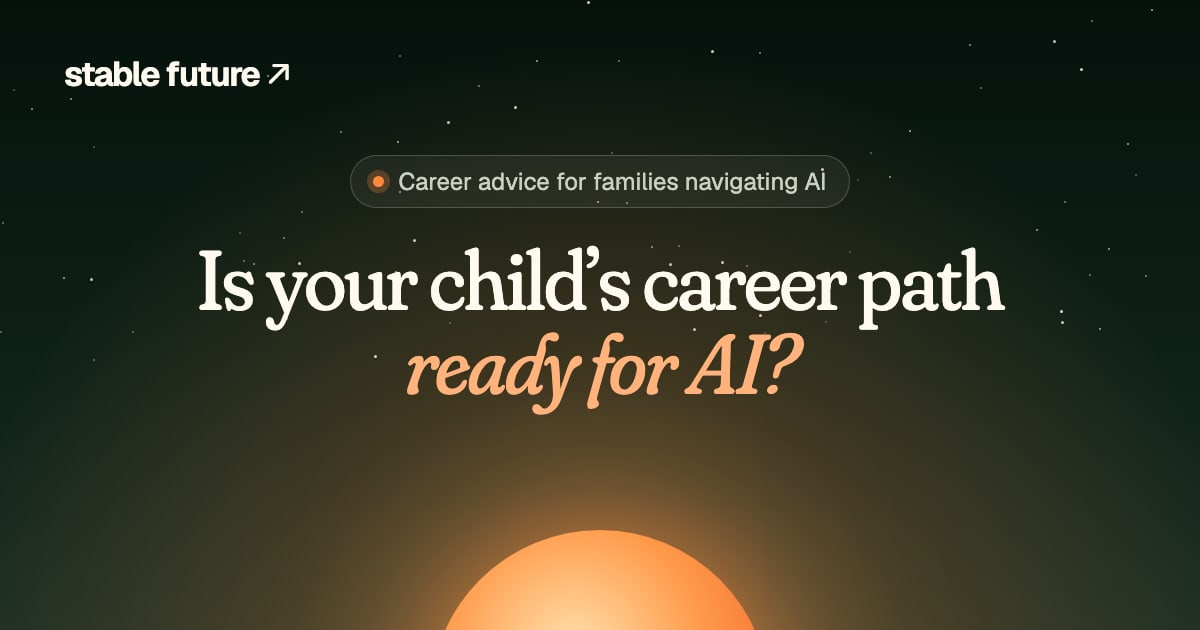
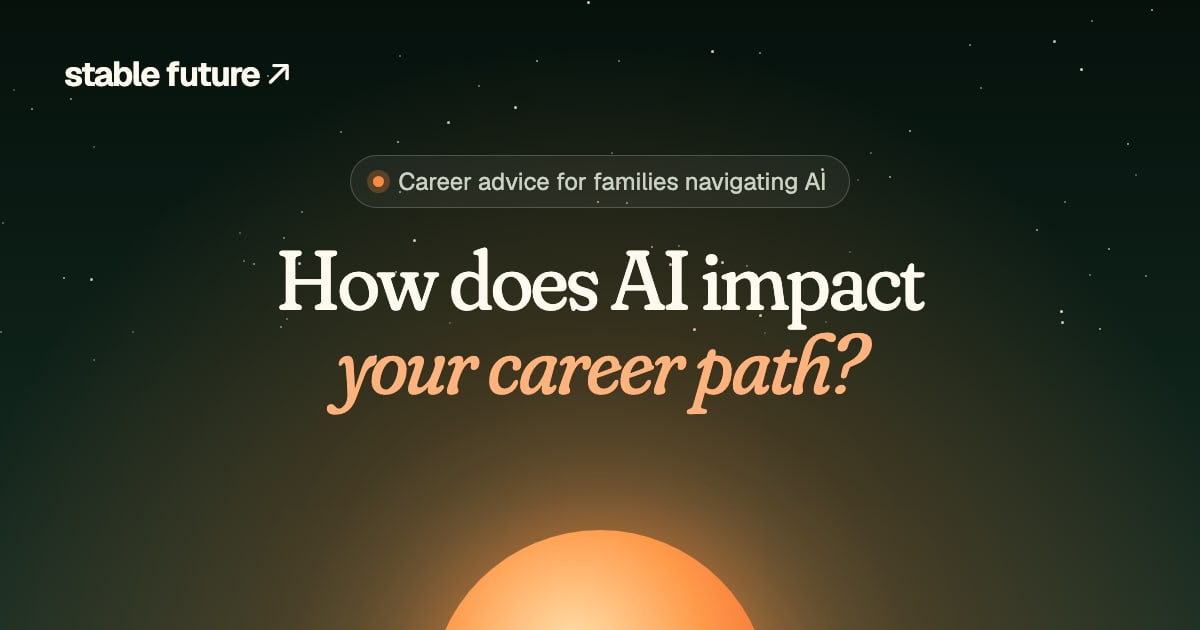
Copy: speak to students and parents, simplify the career check
- Home heading and check prompt: "How does AI impact your career path?";
  search title and share image follow
- Replace "your child" with son or daughter, student, or they; parent(s)
- "Skills strategy", "1 plan you have confidence in", bio without
  "of all ages"
- Career check: search only (no suggestions or count), no empty slots,
  clearer opt-out, report tiles match the email (3 tasks, A/B/Z + advice)
- Email advice addresses the reader; "Every student needs a plan for AI"
- Draft reply email includes a way to opt out, as PECR requires
- About link lands 64px lower so the whole section fits

Changed region(s): [[0.1542, 0.3921, 0.8325, 0.6635]]

diff --git a/app/ai-career-check/CareerCheck.tsx b/app/ai-career-check/CareerCheck.tsx
@@ -20,7 +20,6 @@ const KINDS = [
 const KIND_ORDER: Record<string, number> = { degree: 0, apprenticeship: 1, job: 2 };
 const kindLabel = (kind: string) => kind === 'degree' ? 'Degree' : kind === 'apprenticeship' ? 'Apprenticeship' : 'Job';
 // One tap adds these. Chosen because parents ask about them most often.
-const POPULAR = ['cah3:CAH04-01-01', 'cah3:CAH16-01-01', 'cah3:CAH11-01-01', 'cah3:CAH01-01-02', 'cah3:CAH17-01-01', 'st:ST0116', 'cah3:CAH17-01-08', 'st:ST0152', 'cah3:CAH02-04-01', 'cah3:CAH19-01-01', 'st:ST0246', 'soc4:2255'];
 const HINTS = ['Psychology', 'Electrician', 'Law', 'Software developer', 'Medicine', 'Marketing'];
 const MAX = 3;
 
@@ -92,7 +91,6 @@ export default function CareerCheck({ testing = false }: { testing?: boolean }) 
     return () => window.clearInterval(timer);
   }, []);
 
-  const byId = useMemo(() => new Map((catalogue?.paths ?? []).map((p) => [p.id, p])), [catalogue]);
   const areas = useMemo(() => {
     if (!catalogue || !kind) return [];
     if (kind === 'job') return catalogue.jobGroups.map((g) => ({ id: g.id, label: g.title })).sort((a, b) => a.label.localeCompare(b.label));
@@ -107,9 +105,9 @@ export default function CareerCheck({ testing = false }: { testing?: boolean }) 
       .filter((p) => (!kind || p.kind === kind) && (!sector || (kind === 'job' ? ids?.has(p.id) : p.sectors?.some((s) => (typeof s === 'string' ? s : s.id) === sector))))
       .sort((a, b) => KIND_ORDER[a.kind] - KIND_ORDER[b.kind] || a.title.localeCompare(b.title));
   }, [catalogue, kind, sector]);
-  const browsing = !query.trim() && !sector;
+  // Nothing is listed until the visitor types or picks a path type.
+  const browsing = !query.trim() && !sector && !kind;
   const results = useMemo(() => browsing ? [] : searchMatches(pool, query, (p) => p.title, (p) => p.aka ?? []).slice(0, 60), [pool, query, browsing]);
-  const popular = useMemo(() => POPULAR.map((id) => byId.get(id)).filter((p): p is Path => !!p && (!kind || p.kind === kind)), [byId, kind]);
   const full = selected.length >= MAX;
   const locked = status === 'sending';
 
@@ -162,7 +160,7 @@ export default function CareerCheck({ testing = false }: { testing?: boolean }) 
 
     <section className={styles.hero}>
       <p className={styles.eyebrow}>The free AI career check for parents</p>
-      <h1>How exposed is your child’s <em>career path</em> to AI?</h1>
+      <h1>How exposed is your son or daughter’s <em>career path</em> to AI?</h1>
       <p className={styles.lede}>Pick up to three degrees, apprenticeships, or jobs. We’ll email you a clear report: how much of the work AI can do, and what to do about it.</p>
     </section>
 
@@ -192,11 +190,7 @@ export default function CareerCheck({ testing = false }: { testing?: boolean }) 
         <div id="cc-results" className={styles.results} aria-live="polite">
           {loadError ? <div className={styles.empty}>We couldn’t load the paths. <button type="button" onClick={() => { setLoadError(false); setReload(reload + 1); }}>Try again</button></div>
             : !catalogue ? <div className={styles.skeleton}>{Array.from({ length: 6 }, (_, i) => <i key={i} />)}</div>
-            : browsing ? <>
-              <p className={styles.listLabel}>Popular with parents</p>
-              <div className={styles.popular}>{popular.map((p) => item(p, styles.chip))}</div>
-              <p className={styles.listHint}>Or type any of {catalogue.paths.length.toLocaleString('en-GB')} UK degrees, apprenticeships, and jobs.</p>
-            </> : <>
+            : browsing ? null : <>
               <p className={styles.listLabel}>{results.length ? `${results.length === 60 ? '60+' : results.length} ${results.length === 1 ? 'match' : 'matches'}` : 'No matches yet'}</p>
               <div className={styles.list} role="list">{results.map(({ item: p, via }, i) => <div role="listitem" key={p.id} data-active={i === active || undefined} onMouseEnter={() => setActive(i)}>{item(p)}{via && <span className={styles.via}>Also called {via}</span>}</div>)}</div>
               {!results.length && <p className={styles.empty}>Try a shorter word, or another path type.</p>}
@@ -214,7 +208,7 @@ export default function CareerCheck({ testing = false }: { testing?: boolean }) 
             <div className={styles.nextStep}>
               <p className={styles.nextEyebrow}>Want a plan, not just a report?</p>
               <p>Ben will help you build a Plan A, B and Z the whole family is happy with. <strong>We only work with 10 families a month.</strong></p>
-              <a className={styles.cta} href="/#advice">Get advice: pick a time <span aria-hidden="true">→</span></a>
+              <Link className={styles.cta} href="/#advice">Get advice: pick a time <span aria-hidden="true">→</span></Link>
             </div>
             <button type="button" className={styles.again} onClick={() => { setStatus('idle'); setSelected([]); setError(''); }}>Check different paths</button>
           </div> : <>
@@ -223,23 +217,20 @@ export default function CareerCheck({ testing = false }: { testing?: boolean }) 
               <h2 id="report-title">Your report</h2>
               <span className={styles.ready} data-on={selected.length > 0 || undefined}>{selected.length ? 'Ready to send' : 'Waiting for a path'}</span>
             </div>
-            <ol className={styles.slots}>
-              {Array.from({ length: MAX }, (_, i) => {
-                const p = selected[i];
-                return p ? <li key={p.id} className={styles.slot} data-kind={p.kind}>
-                  <span className={styles.optionIcon}><PathIcon kind={p.kind} /></span>
-                  <span className={styles.slotText}><small>{kindLabel(p.kind)}</small><strong>{p.title}</strong><LockedMeter /></span>
-                  <button type="button" onClick={() => remove(p.id)} disabled={locked} aria-label={`Remove ${p.title}`}>×</button>
-                </li> : <li key={`empty-${i}`} className={styles.slotEmpty}><span>{i + 1}</span>{i === 0 ? 'Add a degree, apprenticeship, or job' : 'Optional: add another to compare'}</li>;
-              })}
-            </ol>
+            {selected.length > 0 && <ol className={styles.slots}>
+              {selected.map((p) => <li key={p.id} className={styles.slot} data-kind={p.kind}>
+                <span className={styles.optionIcon}><PathIcon kind={p.kind} /></span>
+                <span className={styles.slotText}><small>{kindLabel(p.kind)}</small><strong>{p.title}</strong><LockedMeter /></span>
+                <button type="button" onClick={() => remove(p.id)} disabled={locked} aria-label={`Remove ${p.title}`}>×</button>
+              </li>)}
+            </ol>}
 
             {testing ? <div className={styles.form}><p className={styles.testNote}>Test mode · no emails or signups</p><a className={styles.cta} href={selected.length ? preview : undefined} aria-disabled={!selected.length} target="_blank" rel="noreferrer">View results <span aria-hidden="true">↗</span></a></div>
               : <form className={styles.form} onSubmit={submit} data-ready={selected.length > 0 || undefined}>
                 <label htmlFor="career-email">Where should we send it?</label>
                 <input ref={emailRef} id="career-email" type="email" inputMode="email" autoComplete="email" placeholder="you@example.com" value={email} onChange={(e) => setEmail(e.target.value)} maxLength={254} required disabled={locked} />
                 <div className={styles.honeypot} aria-hidden="true"><label>Website<input name="website" value={website} onChange={(e) => setWebsite(e.target.value)} autoComplete="off" tabIndex={-1} /></label></div>
-                <label className={styles.optIn}><input type="checkbox" checked={optOut} onChange={(e) => setOptOut(e.target.checked)} disabled={locked} /><span>We’ll also send a few short emails on helping your child plan their career. Tick here if you’d rather not. You can unsubscribe any time.</span></label>
+                <label className={styles.optIn}><input type="checkbox" checked={optOut} onChange={(e) => setOptOut(e.target.checked)} disabled={locked} /><span>We’ll also send a few short emails on helping your son or daughter plan their career. Tick here if you’d rather not receive these. You can unsubscribe any time.</span></label>
                 <button className={styles.cta} type="submit" disabled={!selected.length || locked}>{locked ? 'Sending your report…' : selected.length ? 'Email my free report' : 'Choose a path first'} <span aria-hidden="true">→</span></button>
                 {error && <p className={styles.error} role="alert">{error}</p>}
                 <p className={styles.fine}>We use your email to send the report and any follow-ups. <a href="/privacy">Privacy notice</a></p>
@@ -258,15 +249,15 @@ export default function CareerCheck({ testing = false }: { testing?: boolean }) 
       <div className={styles.scale} aria-label="The five exposure bands">{BANDS.map((b) => <span key={b.key} style={{ background: b.bg, color: b.ink }}>{b.label}</span>)}</div>
       <div className={styles.tiles}>
         <article><b>01</b><h3>An exposure band for each path</h3><p>From very low to very high, ranked against 1,182 UK jobs.</p></article>
-        <article><b>02</b><h3>Where each path leads</h3><p>The jobs a course or apprenticeship leads to, each with its own score.</p></article>
-        <article><b>03</b><h3>The tasks inside the job</h3><p>The five most important tasks, and whether AI can help with them today.</p></article>
-        <article><b>04</b><h3>What to do next</h3><p>How to plan an A, B and Z, and the skills employers pay more for.</p></article>
+        <article><b>02</b><h3>Where each path leads</h3><p>The careers a degree, apprenticeship, or jobs sector leads to, each with an AI exposure score.</p></article>
+        <article><b>03</b><h3>The tasks inside the job</h3><p>The three most important tasks, and whether AI can help with them today.</p></article>
+        <article><b>04</b><h3>What to do next</h3><p>Making a Plan A, B and Z, and getting the right advice.</p></article>
       </div>
       <div className={styles.short}>
         <p className={styles.listLabel}>Why it matters</p>
         <ol>
           <li><strong>Jobs are made of tasks.</strong></li>
-          <li><strong>AI exposure means how many of a job’s tasks AI can do.</strong></li>
+          <li><strong>AI exposure measures how much of a job’s tasks AI can do, compared with other jobs.</strong></li>
           <li><strong>Higher exposure is linked to fewer entry-level jobs.</strong> AI is doing the tasks juniors used to do. <a href="https://digitaleconomy.stanford.edu/project/indicators/canaries-dashboard/" target="_blank" rel="noopener">Stanford Digital Economy Lab</a></li>
           <li><strong>AI is improving faster each year,</strong> and companies are starting to use it at scale. <a href="https://epoch.ai/" target="_blank" rel="noopener">Epoch AI</a></li>
         </ol>

diff --git a/app/landing/content.ts b/app/landing/content.ts
@@ -14,7 +14,7 @@ export const CALL_URL = '/call';
 
 export const HERO = {
   eyebrow: 'Career advice for families navigating AI',
-  title: 'Is your child’s career path ready for AI?',
+  title: 'How does AI impact your career path?',
   audience: 'For parents of students of any age.',
   cta: 'Check their career path',
   secondary: 'Get advice',
@@ -50,16 +50,16 @@ export const JOBS = {
     { label: 'Now', text: 'AI does many of those tasks, so firms hire fewer juniors.' },
     { label: 'Next', text: 'New starters must work like seniors: set goals, check AI’s work, use judgement. The bar rises.' },
   ],
-  checkPrompt: 'How exposed is your child’s path?',
+  checkPrompt: 'How does AI impact your career path?',
 };
 
 export const FAMILIES = {
   eyebrow: 'What families should do',
-  title: 'Your child will spend 80,000 hours in their career. Help them choose well.',
-  titleParts: ['Your child will spend ', '80,000 hours', ' in their career. Help them choose well.'],
+  title: 'We spend 80,000 hours in our careers. Help your family choose well.',
+  titleParts: ['We spend ', '80,000 hours', ' in our careers. Help your family choose well.'],
   intro: 'Choosing a career was already one of life’s biggest decisions. AI makes it bigger. Four moves make the difference.',
   moves: [
-    { n: '01', title: 'Avoid dead ends', text: 'Don’t start in a career where AI already does most of the junior work, unless your child is truly exceptional at it. Take accountancy: on month-end accounting tasks, AI now beats junior accountants, getting every attempt right in under 10 minutes.', source: 'mercor' as const },
+    { n: '01', title: 'Avoid dead ends', text: 'Don’t start in a career where AI already does most of the junior work, unless they’re truly exceptional at it. Take accountancy: on month-end accounting tasks, AI now beats junior accountants, getting every attempt right in under 10 minutes.', source: 'mercor' as const },
     { n: '02', title: 'Pick a direction', text: 'Match their interests, strengths, and preferences to careers with growing demand. Then find the best way in: university, an apprenticeship, or straight into work.' },
     { n: '03', title: 'Learn to work with AI', text: 'In every career, AI will take some tasks and leave others. People who do the human parts well, and use AI for the rest, earn more.', stat: { value: '62%', label: 'higher pay, on average, for jobs that need AI skills', source: 'pwc' as const } },
     { n: '04', title: 'Make a Plan A, B and Z', text: 'Plan A is the career they want most. Plan B is a good alternative that’s less exposed to AI. Plan Z is a lifeboat: work that’s barely exposed at all. So they’re secure even in a very disruptive job market.' },
@@ -77,29 +77,29 @@ export const WHO = {
   greeting: 'Hi, I’m Ben.',
   bio: [
     'I used to build AI for businesses. As an AI Consultant, I’ve helped career coaches, environmental consultants, civil engineers, the NHS, and the University of Oxford. I saw how quickly AI was taking on work people had trained for years to do.',
-    'So I left to help young people get ahead of it. I’ve tutored and mentored students of all ages since 2021. Now I spend my days tracking how AI is changing UK jobs, and turning that into advice families can act on.',
+    'So I left to help young people get ahead of it. I’ve tutored and mentored students since 2021. Now I spend my days tracking how AI is changing UK jobs, and turning that into advice families can act on.',
   ],
   credentials: ['MSc Data Science, Lancaster', 'BA Maths and Philosophy, Lancaster', 'Machine learning researcher, University of Oxford', 'Statistician, NHS', 'AI Consultant, Waterman Group', 'Data Scientist, career coaching startup', 'Student Tutor and mentor'],
   data: [
     { value: '1,182', label: 'UK jobs broken into their tasks and scored for AI exposure' },
     { value: '780', label: 'degree subjects and apprenticeships traced to the jobs they lead to' },
-    { value: '1', label: 'plan your whole family agrees on' },
+    { value: '1', label: 'plan you have confidence in' },
   ],
   dataNote: 'Built on ONS job and task data, HESA graduate outcomes, and the latest research.',
-  outcomes: 'We work towards outcomes, not information. You won’t get a pile of reports. You’ll get a plan your child believes in, and the skills to make it work.',
+  outcomes: 'We work towards outcomes, not information. You won’t get a pile of reports. You’ll get a plan the student believes in, and the skills to make it work.',
   steps: [
-    { title: 'Career test', text: 'Your child takes Pathfinder, our career test. Ben studies the results.' },
-    { title: 'Options session', text: 'Ben takes the family through the best paths for your child, and you narrow them down together.' },
+    { title: 'Career test', text: 'Our students take Pathfinder, our career test. Ben studies the results.' },
+    { title: 'Options session', text: 'Ben takes the family through the best paths, and we narrow them down together.' },
     { title: 'Plan A, B and Z', text: 'You agree one plan the whole family is happy with.' },
-    { title: 'Skills plan', text: 'For Plan A, Ben finds the skills employers pay thousands more for and sets out how to build them, such as a job-specific AI project.' },
+    { title: 'Skills strategy', text: 'For Plan A, Ben finds the skills employers pay thousands more for and sets out how to build them, such as a job-specific AI project.' },
   ],
-  leaveWith: ['A direction your child is excited about', 'A backup plan if things change', 'A project that sets them apart'],
+  leaveWith: ['A direction they’re excited about', 'A backup plan if things change', 'A project that sets them apart'],
 };
 
 export const ADVICE = {
   eyebrow: 'Get advice',
-  title: 'Let’s make your child’s plan.',
-  intro: 'Book a Future-Proof Career Strategy call with Ben. Tell us a little about your child, then choose a time. We recommend both the child and parents attend.',
+  title: 'Let’s make a plan for your son or daughter.',
+  intro: 'Book a Future-Proof Career Strategy call with Ben. Tell us a little about your son or daughter, then choose a time. We recommend both the student and parent(s) attend.',
   scarcity: 'We only work with 10 families a month,',
   scarcityRest: 'so every plan gets proper time. Get in touch now to secure a place.',
   placeholder: 'For example: my daughter is in Year 12. She loves biology and is torn between medicine and a biomedical science degree.',

diff --git a/app/ai-career-check/career-check.module.css b/app/ai-career-check/career-check.module.css
@@ -67,9 +67,8 @@
 .kinds select { min-height: 40px; max-width: 100%; padding: 0 12px; border: 1px solid #e2dfcc; border-radius: 999px; background: #fff; font-size: 14px; color: var(--ink); }
 
 .results { min-height: 220px; }
+.results:empty { min-height: 0; }
 .listLabel { margin: 0 0 10px; font-size: 12px; font-weight: 700; letter-spacing: .08em; text-transform: uppercase; color: var(--muted); }
-.listHint { margin: 16px 0 0; font-size: 14px; color: var(--muted); }
-.popular { display: flex; flex-wrap: wrap; gap: 8px; }
 .list { display: flex; flex-direction: column; gap: 6px; max-height: 420px; overflow-y: auto; padding: 2px; margin: -2px; overscroll-behavior: contain; }
 .list > div { position: relative; }
 .via { position: absolute; right: 56px; top: 50%; transform: translateY(-50%); font-size: 12px; color: var(--muted); pointer-events: none; }
@@ -89,12 +88,6 @@
 .plus { display: grid; place-items: center; width: 32px; height: 32px; border-radius: 50%; background: #fff; border: 1px solid #e2dfcc; font-size: 18px; color: var(--ink); flex-shrink: 0; transition: background .2s, color .2s, transform .3s; }
 .option:hover:not(:disabled) .plus { background: var(--sun); border-color: var(--sun); color: var(--ink); transform: rotate(90deg); }
 .option[data-added] .plus { background: var(--c); border-color: var(--c); color: #fff; }
-.chip { width: auto; min-height: 48px; padding: 5px 12px 5px 5px; border-radius: 999px; gap: 8px; background: #fff; border-color: #ebe8d8; }
-.chip .optionIcon { width: 36px; height: 36px; border-radius: 50%; }
-.chip .optionIcon svg { width: 18px; height: 18px; }
-.chip .optionText strong { font-size: 14px; }
-.chip .optionText small { display: none; }
-.chip .plus { width: 24px; height: 24px; font-size: 15px; border: 0; background: #f2f0e5; }
 .empty { padding: 18px 0; color: var(--muted); font-size: 15px; }
 .empty button { margin-left: 6px; border: 0; background: none; color: var(--ink); text-decoration: underline; cursor: pointer; }
 .skeleton { display: flex; flex-wrap: wrap; gap: 8px; }
@@ -113,8 +106,6 @@
 .slotText strong { font-size: 15px; line-height: 1.3; }
 .slot > button { width: 32px; height: 32px; border-radius: 50%; border: 0; background: #ffffffb0; font-size: 18px; color: var(--ink); cursor: pointer; flex-shrink: 0; }
 .slot > button:hover { background: #fff; }
-.slotEmpty { display: flex; align-items: center; gap: 12px; min-height: 64px; padding: 12px; border: 2px dashed #e2dfcc; border-radius: 18px; font-size: 14px; color: #8a907f; }
-.slotEmpty span { display: grid; place-items: center; width: 40px; height: 40px; border-radius: 12px; background: #f4f2e8; font-weight: 700; }
 @keyframes pop { from { transform: scale(.85); opacity: 0; } }
 .locked { display: inline-flex; align-items: center; gap: 3px; margin-top: 3px; color: #8a907f; }
 .locked i { width: 22px; height: 7px; border-radius: 4px; filter: saturate(2.2) brightness(.96); }
@@ -192,10 +183,6 @@
   .kinds button { padding: 0 13px; flex-shrink: 0; }
   .kinds button svg { display: none; }
   .kinds select { flex-shrink: 0; max-width: 220px; }
-  .popular { gap: 6px; }
-  .chip { min-height: 42px; padding: 0 6px 0 14px; }
-  .chip .optionIcon { display: none; }
-  .chip .optionText strong { font-size: 14px; }
   .tiles { grid-template-columns: 1fr; }
   .scale span { font-size: 11px; padding: 10px 2px; }
   .mobileBar { position: fixed; left: 12px; right: 12px; bottom: 12px; z-index: 20; display: flex; align-items: center; justify-content: space-between; min-height: 60px; padding: 0 22px; border: 0; border-radius: 999px; background: var(--ink); color: #fffaf0; font-size: 15px; box-shadow: 0 16px 40px -10px #1d302680; animation: pop .4s cubic-bezier(.3, 1.6, .5, 1); }

diff --git a/app/landing/Parts.tsx b/app/landing/Parts.tsx
@@ -62,7 +62,7 @@ export function AbzPaths({ tone = 'light' }: { tone?: 'light' | 'dark' }) {
       <path d="M40 150 C 200 150, 260 250, 430 250" pathLength={1} />
       <circle cx="40" cy="150" r="16" className={s.origin} />
     </svg>
-    <span className={s.you}>Your child</span>
+    <span className={s.you}>Student</span>
     <ol>
       {FAMILIES.plans.map((p) => <li key={p.key} data-plan={p.key}><b>{p.key}</b><div><strong>{p.title}</strong><span>{p.text}</span></div></li>)}
     </ol>
@@ -95,7 +95,7 @@ export function AdviceForm({ tone = 'light' }: { tone?: 'light' | 'dark' }) {
   if (status === 'sent') return <div className={s.booking} data-booking-step="calendar" data-tone={tone}>
     <h3 ref={bookingHeading} tabIndex={-1}>Choose your call time</h3>
     <p>Future-Proof Career Strategy · 45 minutes · Google Meet</p>
-    <p>A video call to discuss your child&apos;s career options and next steps. We recommend both the child and parents attend.</p>
+    <p>A video call to discuss their career options and next steps. We recommend both the student and parent(s) attend.</p>
     <Cal calLink="ben-grime/strategy-call" namespace="family-strategy" config={{ name: values.name.trim(), email: values.email.trim(), notes: values.situation.trim(), layout: 'month_view', theme: 'light' }} style={{ width: '100%', minHeight: 650 }} />
     <p className={s.fine}>Can’t find a suitable time? <a href="mailto:ben@stablefuture.uk">Email Ben</a>. Calendar not loading? <a href={CALL_URL} target="_blank" rel="noopener noreferrer">Open the booking page</a>.</p>
   </div>;
@@ -103,7 +103,7 @@ export function AdviceForm({ tone = 'light' }: { tone?: 'light' | 'dark' }) {
   return <form className={s.form} data-tone={tone} onSubmit={submit}>
     <label><span>Your name</span><input value={values.name} onChange={set('name')} autoComplete="name" required maxLength={100} disabled={busy} /></label>
     <label><span>Email</span><input value={values.email} onChange={set('email')} type="email" inputMode="email" autoComplete="email" required maxLength={254} disabled={busy} /></label>
-    <label><span>Your child’s situation</span><textarea value={values.situation} onChange={set('situation')} placeholder={ADVICE.placeholder} rows={4} required minLength={10} maxLength={3000} disabled={busy} /></label>
+    <label><span>About your son or daughter</span><textarea value={values.situation} onChange={set('situation')} placeholder={ADVICE.placeholder} rows={4} required minLength={10} maxLength={3000} disabled={busy} /></label>
     <div className={s.honeypot} aria-hidden="true"><label>Website<input value={values.website} onChange={set('website')} tabIndex={-1} autoComplete="off" /></label></div>
     <button type="submit" disabled={busy}>{busy ? 'Sending…' : ADVICE.button}<span aria-hidden="true">→</span></button>
     {error && <p className={s.error} role="alert">{error}</p>}

diff --git a/app/landing/Dawn.tsx b/app/landing/Dawn.tsx
@@ -103,7 +103,8 @@ export default function Dawn() {
       e.preventDefault();
       const nav = el.querySelector('header')?.getBoundingClientRect().height ?? 0;
       const from = window.scrollY;
-      const to = target.getBoundingClientRect().top + from - nav;
+      // A section can ask to land a little lower, past its own top padding.
+      const to = target.getBoundingClientRect().top + from - nav + Number(target.dataset.scrollOffset || 0);
       if (reducedMotion()) { window.scrollTo(0, to); return; }
       const start = performance.now();
       const step = (now: number) => {
@@ -135,7 +136,7 @@ export default function Dawn() {
     <main data-landing>
       <section className={s.hero} data-sky="night" data-tone="dark" data-scene>
         <p className={s.eyebrow}><i />{HERO.eyebrow}</p>
-        <h1>Is your child’s career path <em>ready for AI?</em></h1>
+        <h1>How does AI impact <em>your career path?</em></h1>
         <div className={s.actions}>
           <a className={s.bigCta} href={CHECK_URL}>{HERO.cta}<span aria-hidden="true">→</span></a>
           <a className={s.textLink} href="#advice">{HERO.secondary}</a>
@@ -176,7 +177,7 @@ export default function Dawn() {
         <div className={s.glass} data-reveal><AbzPaths /></div>
       </section>
 
-      <section id="who" className={s.section} data-sky="morning" data-tone="light">
+      <section id="who" className={s.section} data-sky="morning" data-tone="light" data-scroll-offset="64">
         <div className={s.who}>
           <figure className={s.portrait} data-reveal>
             {/* eslint-disable-next-line @next/next/no-img-element */}

diff --git a/app/page.tsx b/app/page.tsx
@@ -5,11 +5,11 @@ import Dawn from './landing/Dawn';
 const fraunces = Fraunces({ subsets: ['latin'], variable: '--font-display', axes: ['SOFT', 'opsz'], style: ['normal', 'italic'], display: 'swap' });
 
 export const metadata: Metadata = {
-  title: 'Is your child’s career ready for AI? | Stable Future',
+  title: 'How does AI impact your career path? | Stable Future',
   description: 'Understand how AI affects your career and build a strategy to develop the skills employers pay most for.',
   alternates: { canonical: '/' },
-  openGraph: { title: 'Is your child’s career ready for AI? | Stable Future', description: 'Understand how AI affects your career and build a strategy to develop the skills employers pay most for.', url: '/' },
-  twitter: { card: 'summary_large_image', title: 'Is your child’s career ready for AI? | Stable Future', description: 'Understand how AI affects your career and build a strategy to develop the skills employers pay most for.' },
+  openGraph: { title: 'How does AI impact your career path? | Stable Future', description: 'Understand how AI affects your career and build a strategy to develop the skills employers pay most for.', url: '/' },
+  twitter: { card: 'summary_large_image', title: 'How does AI impact your career path? | Stable Future', description: 'Understand how AI affects your career and build a strategy to develop the skills employers pay most for.' },
 };
 
 // Tells search engines the site's name, logo, what it does, and who runs it.

diff --git a/app/config.ts b/app/config.ts
@@ -18,4 +18,4 @@ export const SCARCITY_TEXT =
 
 // Link-preview image (app/opengraph-image.jpg). Pages that set their own
 // openGraph must list it, because Next.js replaces the inherited openGraph.
-export const SHARE_IMAGE = { url: "/opengraph-image.jpg", width: 1200, height: 630, alt: "Stable Future: Is your child’s career path ready for AI? Career advice for families navigating AI." };
+export const SHARE_IMAGE = { url: "/opengraph-image.jpg", width: 1200, height: 630, alt: "Stable Future: How does AI impact your career path? Career advice for families navigating AI." };

diff --git a/app/layout.tsx b/app/layout.tsx
@@ -18,7 +18,7 @@ const geistMono = Geist_Mono({
 
 export const metadata: Metadata = {
   metadataBase: new URL("https://www.stablefuture.uk"),
-  title: "Is your child’s career ready for AI? | Stable Future",
+  title: "How does AI impact your career path? | Stable Future",
   description: "Understand how AI affects your career and build a strategy to develop the skills employers pay most for.",
   openGraph: { siteName: "Stable Future", locale: "en_GB", type: "website" },
   twitter: { card: "summary_large_image" },
